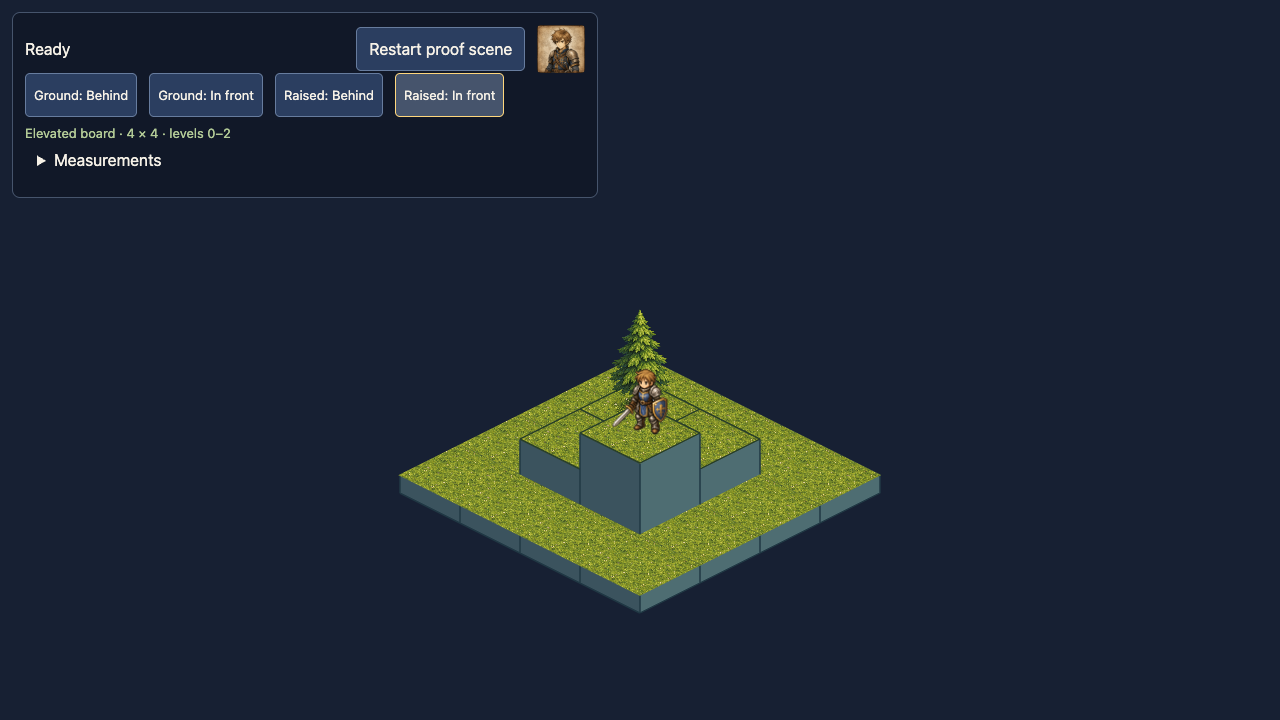
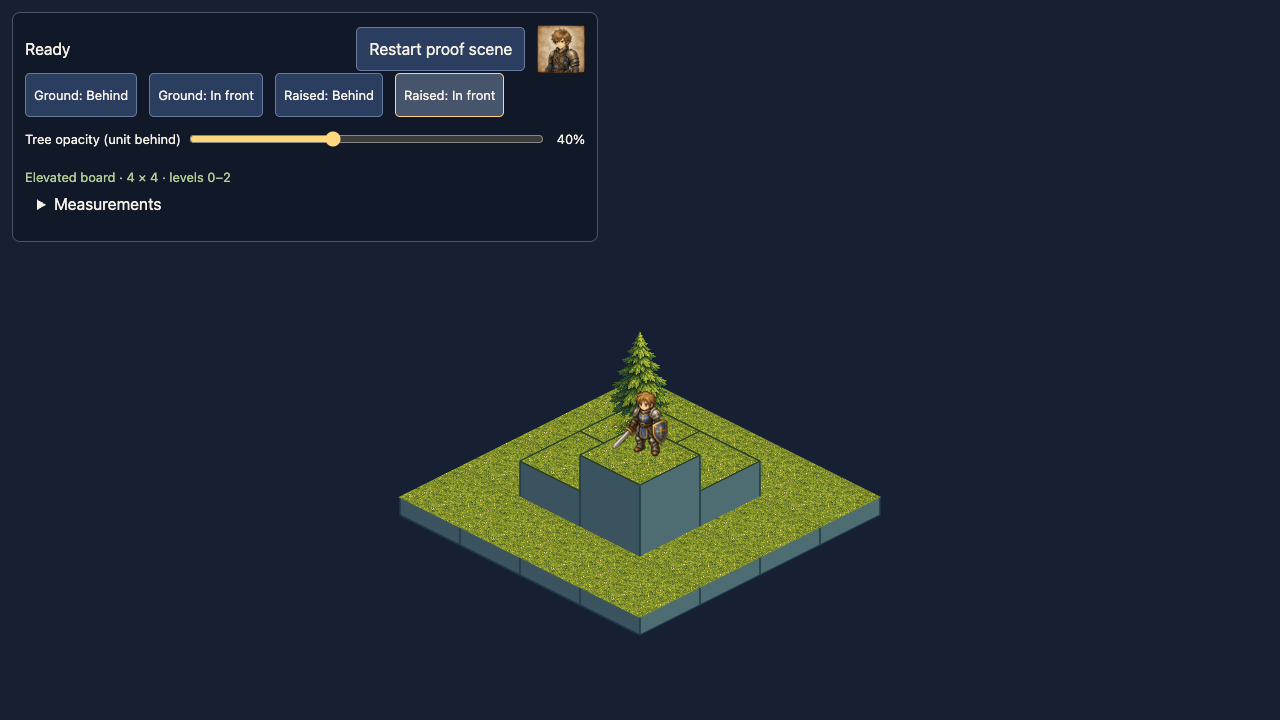
feat: add a live tree opacity preview slider

Changed region(s): [[0.3125, 0.4278, 0.6875, 0.8861], [0.0, 0.1833, 0.4688, 0.3056]]

diff --git a/tests/opacity.spec.ts b/tests/opacity.spec.ts
@@ -1,0 +1,32 @@
+import { expect, test } from '@playwright/test';
+
+test('opacity slider previews 0–100, preserves its choice across fixtures and restart', async ({ page }) => {
+  await page.goto('/');
+  await expect(page.getByRole('status')).toHaveText('Ready');
+  const slider = page.getByRole('slider', { name: 'Tree opacity (unit behind)' });
+  await expect(slider).toHaveAttribute('min', '0');
+  await expect(slider).toHaveAttribute('max', '100');
+  await expect(slider).toHaveValue('40');
+  await page.getByRole('button', { name: 'Raised: Behind', exact: true }).click();
+  await slider.focus();
+  for (const [key, value] of [['Home', '0'], ['End', '100'], ['ArrowLeft', '99']] as const) {
+    await slider.press(key);
+    await expect(slider).toHaveValue(value);
+    await expect(page.locator('#tree-opacity-value')).toHaveText(`${value}%`);
+    expect(await page.evaluate(() => window.fitDiagnostics().proof?.propAlpha)).toBe(Number(value) / 100);
+  }
+  await page.getByRole('button', { name: 'Raised: In front', exact: true }).click();
+  expect(await page.evaluate(() => window.fitDiagnostics().proof?.propAlpha)).toBe(1);
+  await page.getByRole('button', { name: 'Ground: Behind', exact: true }).click();
+  expect(await page.evaluate(() => window.fitDiagnostics().proof?.propAlpha)).toBe(0.99);
+  for (let run = 2; run <= 3; run++) {
+    await page.getByRole('button', { name: 'Restart proof scene' }).click();
+    await expect(page.getByRole('status')).toHaveText('Ready');
+    await expect(page.locator('#game')).toHaveAttribute('data-run', String(run));
+    await expect(slider).toHaveValue('99');
+    expect(await page.evaluate(() => window.fitDiagnostics().proof?.propAlpha)).toBe(0.99);
+  }
+  await slider.focus();
+  await slider.press('Home');
+  expect(await page.evaluate(() => window.fitDiagnostics().proof?.propAlpha)).toBe(0);
+});

diff --git a/src/phaser/BoardRenderer.ts b/src/phaser/BoardRenderer.ts
@@ -7,13 +7,14 @@ import { boardBounds, fitBoard, orderTiles, projectTile, tileFaces, type Point, 
 const ELEVATED_EDGE_COLOR = 0x263c29;
 const ELEVATED_EDGE_WIDTH = 1;
 const OCCUPANT_LAYER = 2.5;
-const OCCLUDING_TREE_ALPHA = 0.4;
+const DEFAULT_OCCLUDING_TREE_ALPHA = 0.4;
 
 export class BoardRenderer {
   private readonly root: Phaser.GameObjects.Container;
   private readonly hero: Phaser.GameObjects.Image;
   private readonly prop: Phaser.GameObjects.Image;
   private readonly bounds: Bounds;
+  private occludingTreeAlpha = DEFAULT_OCCLUDING_TREE_ALPHA;
   private fixture: ProofFixture = 'ground-behind';
   private readonly surfaces: { tile: Tile; image: Phaser.GameObjects.Image }[] = [];
   private readonly surfaceMasks: Phaser.GameObjects.Graphics[] = [];
@@ -70,6 +71,12 @@ export class BoardRenderer {
     this.showFixture('ground-behind');
   }
 
+  setOccludingOpacity(alpha: number): void {
+    if (!Number.isFinite(alpha)) return;
+    this.occludingTreeAlpha = Math.max(0, Math.min(1, alpha));
+    this.showFixture(this.fixture);
+  }
+
   showFixture(fixture: ProofFixture): void {
     this.fixture = fixture;
     const value = PROOF_FIXTURES[fixture];
@@ -79,7 +86,7 @@ export class BoardRenderer {
     this.prop.setPosition(prop.x, prop.y).setDepth(proofDepth(value.prop, OCCUPANT_LAYER));
     const occludesHero = this.hero.depth < this.prop.depth
       && Phaser.Geom.Rectangle.Overlaps(this.hero.getBounds(), this.prop.getBounds());
-    this.prop.setAlpha(occludesHero ? OCCLUDING_TREE_ALPHA : 1);
+    this.prop.setAlpha(occludesHero ? this.occludingTreeAlpha : 1);
     this.root.sort('depth');
     this.publishDiagnostics();
   }

diff --git a/src/phaser/FitScene.ts b/src/phaser/FitScene.ts
@@ -29,6 +29,16 @@ export class FitScene extends Phaser.Scene {
   create(): void {
     if (PROOF_ASSETS.some(asset => !this.textures.exists(asset.key))) return;
     const board = new BoardRenderer(this);
+    const opacitySlider = document.querySelector<HTMLInputElement>('#tree-opacity')!;
+    const opacityValue = document.querySelector<HTMLElement>('#tree-opacity-value')!;
+    const updateOpacity = (): void => {
+      const percent = opacitySlider.valueAsNumber;
+      board.setOccludingOpacity(percent / 100);
+      opacityValue.textContent = `${percent}%`;
+      opacitySlider.setAttribute('aria-valuetext', `${percent}%`);
+    };
+    opacitySlider.addEventListener('input', updateOpacity);
+    updateOpacity();
     const buttons = [...document.querySelectorAll<HTMLButtonElement>('[data-fixture]')];
     const showFixture = (event: Event): void => {
       const fixture = (event.currentTarget as HTMLButtonElement).dataset.fixture!;
@@ -77,6 +87,7 @@ export class FitScene extends Phaser.Scene {
     this.events.once(Phaser.Scenes.Events.SHUTDOWN, () => {
       this.scale.off(Phaser.Scale.Events.RESIZE, layoutBoard);
       panelObserver.disconnect();
+      opacitySlider.removeEventListener('input', updateOpacity);
       for (const button of buttons) button.removeEventListener('click', showFixture);
       portrait.removeEventListener('error', portraitFailed);
       portrait.removeEventListener('load', markUsable);

diff --git a/src/style.css b/src/style.css
@@ -7,7 +7,7 @@ canvas { display: block; }
 button, summary { min-height: 44px; box-sizing: border-box; padding: 10px 12px; cursor: pointer; }
 button { color: inherit; background: #2b3e60; border: 1px solid #677c9e; border-radius: 5px; font: inherit; }
 button:disabled { opacity: 0.5; cursor: default; }
-button:focus-visible, summary:focus-visible { outline: 3px solid #ffd77d; outline-offset: 2px; }
+button:focus-visible, summary:focus-visible, input:focus-visible { outline: 3px solid #ffd77d; outline-offset: 2px; }
 #fit-status { flex: 1; }
 #fit-report { white-space: pre-wrap; overflow-wrap: anywhere; max-height: 35dvh; overflow-y: auto; font-size: 12px; }
 #board-caption { margin: 8px 0 0; color: #b3cb97; font-size: 13px; }
@@ -16,3 +16,7 @@ button:focus-visible, summary:focus-visible { outline: 3px solid #ffd77d; outlin
 button[aria-pressed="true"] { border-color: #ffd77d; background: #46546c; }
 
 [data-fixture] { font-size: 13px; padding: 8px; }
+
+.fit-opacity { gap: 8px; font-size: 13px; }
+#tree-opacity { flex: 1; min-width: 80px; height: 44px; margin: 0; accent-color: #ffd77d; cursor: pointer; }
+#tree-opacity-value { min-width: 4ch; text-align: right; font-variant-numeric: tabular-nums; }

diff --git a/src/main.ts b/src/main.ts
@@ -5,6 +5,7 @@ const container = document.querySelector<HTMLElement>('#game')!;
 const statusLabel = document.querySelector<HTMLElement>('#fit-status')!;
 const restartButton = document.querySelector<HTMLButtonElement>('#fit-restart')!;
 const snapshotButton = document.querySelector<HTMLButtonElement>('#fit-snapshot')!;
+const opacitySlider = document.querySelector<HTMLInputElement>('#tree-opacity')!;
 const report = document.querySelector<HTMLElement>('#fit-report')!;
 let restart: (() => void) | undefined;
 
@@ -13,6 +14,7 @@ function setStatus(state: 'loading' | 'ready' | 'error'): void {
   container.dataset.ready = String(state === 'ready');
   container.dataset.run = String(measurements.snapshot().run);
   restartButton.disabled = state !== 'ready';
+  opacitySlider.disabled = state !== 'ready';
   document.querySelectorAll<HTMLButtonElement>('[data-fixture]').forEach(button => { button.disabled = state !== 'ready'; });
 }
 

diff --git a/index.html b/index.html
@@ -21,6 +21,11 @@
         <button data-fixture="raised-behind" disabled>Raised: Behind</button>
         <button data-fixture="raised-front" disabled>Raised: In front</button>
       </div>
+      <div class="fit-controls fit-opacity">
+        <label for="tree-opacity">Tree opacity (unit behind)</label>
+        <input id="tree-opacity" type="range" min="0" max="100" step="1" value="40" disabled />
+        <span id="tree-opacity-value">40%</span>
+      </div>
       <p id="board-caption">Elevated board · 4 × 4 · levels 0–2</p>
       <details>
         <summary>Measurements</summary>

diff --git a/tests/assets.spec.ts b/tests/assets.spec.ts
@@ -35,5 +35,6 @@ test('failed canonical asset load gives a controlled visible error', async ({ pa
   await page.goto('/');
   await expect(page.getByRole('status')).toContainText('Error: Could not load proof asset fighter');
   await expect(page.getByRole('button', { name: 'Restart proof scene' })).toBeDisabled();
+  await expect(page.getByRole('slider', { name: 'Tree opacity (unit behind)' })).toBeDisabled();
   expect(await page.evaluate(() => window.fitDiagnostics().proof)).toBeNull();
 });

diff --git a/docs/qa/issue-16-assets.md b/docs/qa/issue-16-assets.md
@@ -104,4 +104,6 @@ The previously loaded tree was `art/tiles/tree_single_detailed_N.png` copied unc
 
 ## Unit readability through canopy
 
-The tree renders at 40% opacity when its bounds overlap the hero and it is in front in the existing depth order. It returns to full opacity for front fixtures or when bounds do not overlap. Only the prop fades; hero rendering and depth remain unchanged. Restart recomputes the default ground-behind state. Diagnostics expose the actual prop alpha; browser checks verify both behind/front states at both elevation levels and restart reset. The new opacity assertions failed before the renderer change.
+The tree renders at the selected opacity when its bounds overlap the hero and it is in front in the existing depth order. The controls include a keyboard-accessible 0–100% slider with a live percentage display, initially set to 40%. It returns to full opacity for front fixtures or when bounds do not overlap. Only the prop fades; hero rendering and depth remain unchanged. The chosen opacity persists across fixture changes and scene restarts; restart restores the ground-behind fixture. The slider is disabled until ready and on asset-load failure, and its scene input listener is removed on shutdown. Diagnostics expose the actual prop alpha; browser checks verify both behind/front states at both elevation levels, 0%/100% endpoints and intermediate values, and repeated restart persistence. The new opacity assertions failed before the renderer change.
+
+The slider acceptance check failed before implementation because no slider existed. After implementation it verifies actual rendered alpha via diagnostics and native keyboard input on desktop and mobile-emulated portrait/landscape.
